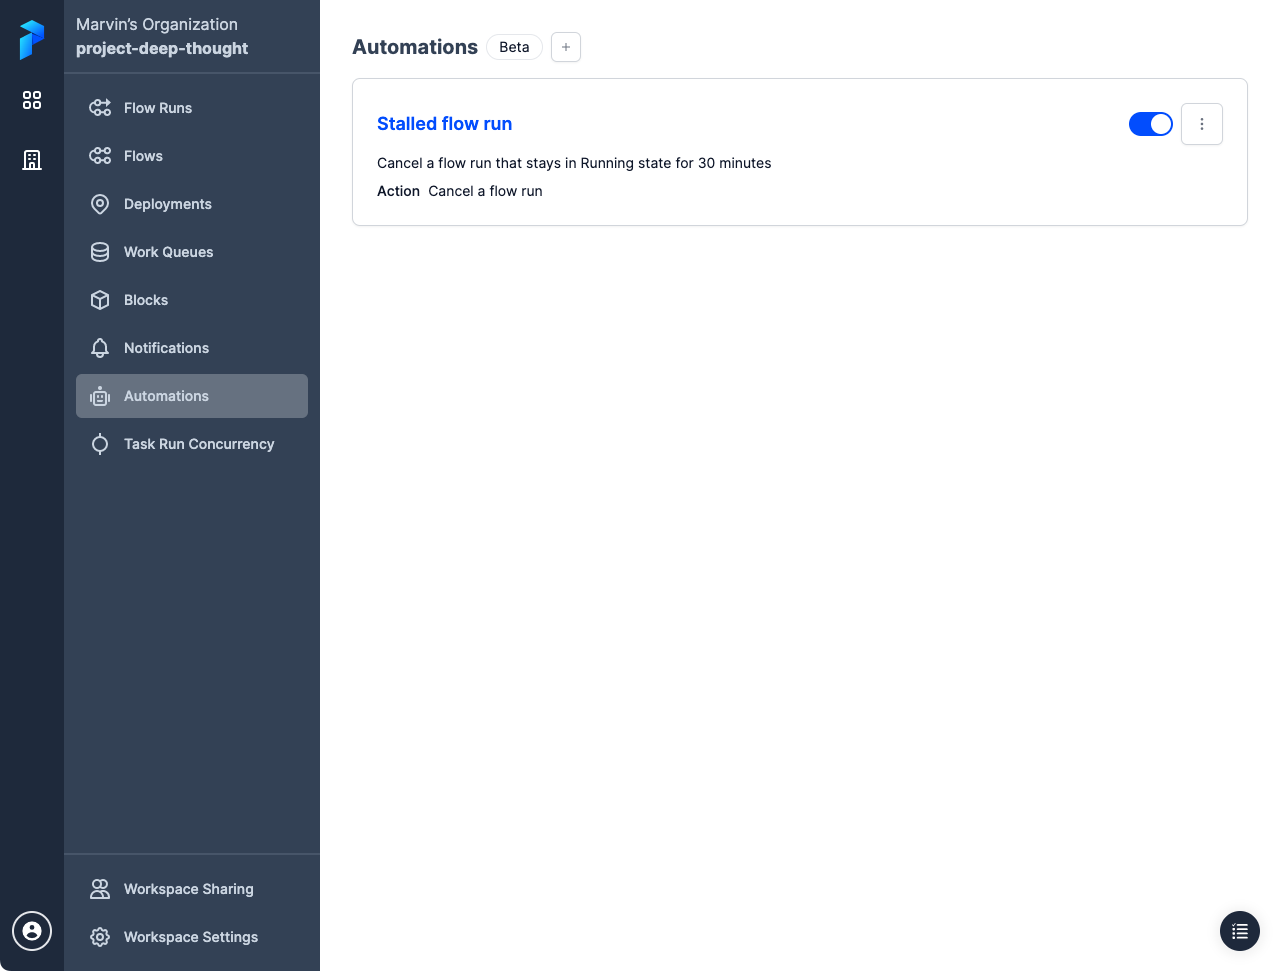
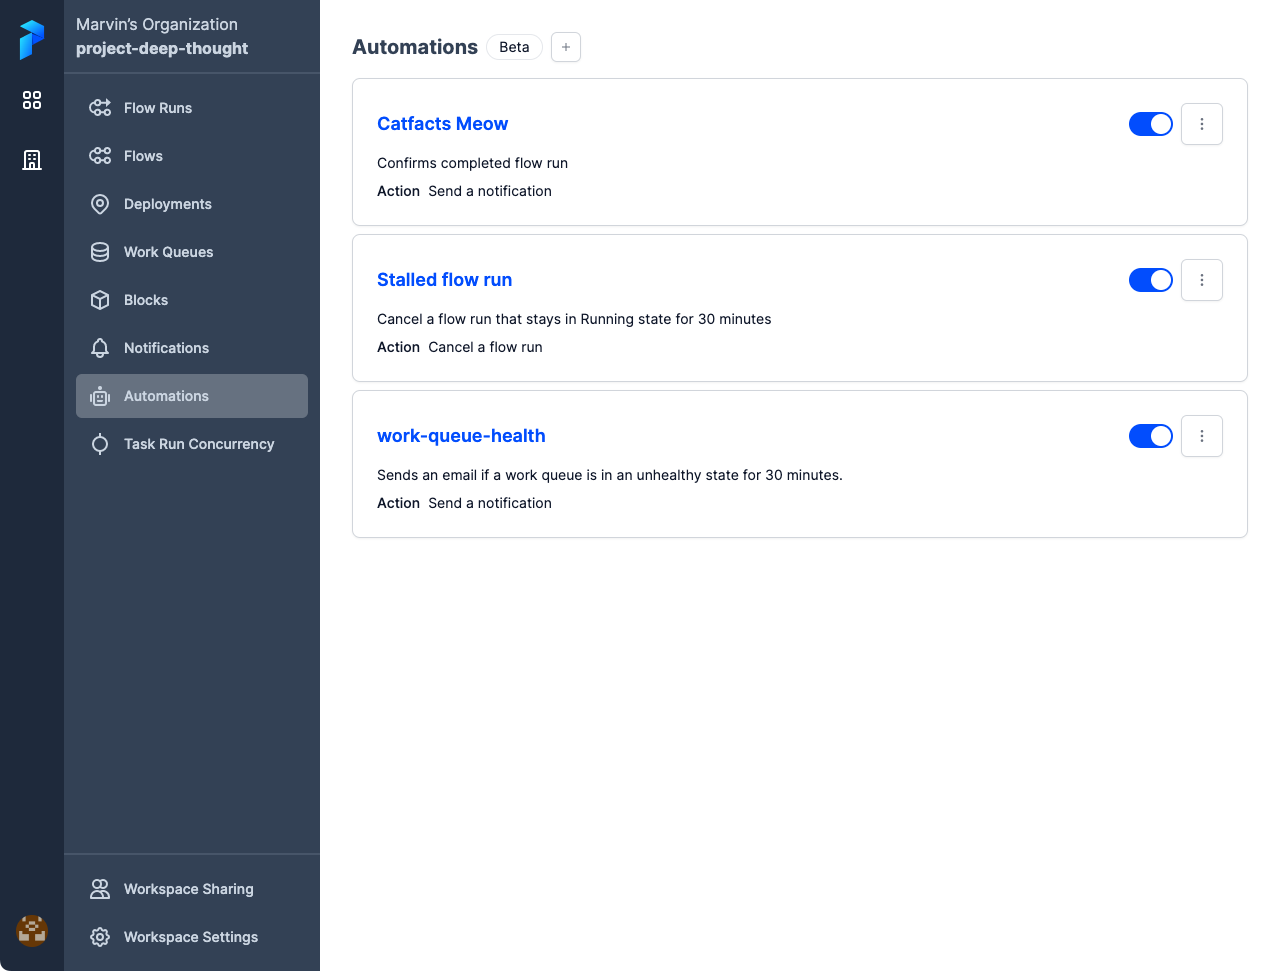
Updates to Automations and Notifications documentation (#8140)

diff --git a/docs/ui/automations.md b/docs/ui/automations.md
@@ -11,11 +11,16 @@ tags:
     - Prefect Cloud
 ---
 
-# Automations <span class="badge cloud"></span> <span class="badge beta"></span>
+# Automations <span class="badge cloud"></span>
 
-Automations are currently in beta and under active development, with new features being added weekly.
+Automations in Prefect Cloud enable you to configure [actions](#actions) that Prefect executes automatically based on [trigger](#triggers) conditions related to your flows and work queues. 
 
-Automations in Prefect Cloud allow for increased flexibility and control of your data stack by allowing you to configure [triggers](#triggers) and [actions](#actions). Using triggers and actions you can automatically kick off flow runs, pause deployments, or send custom notifications (coming soon!) in response to real-time monitoring events.
+Using triggers and actions you can automatically kick off flow runs, pause deployments, or send custom notifications in response to real-time monitoring events.
+
+!!! cloud-ad "Automations are only available in Prefect Cloud"
+    [Notifications](/ui/notifications/) in the open-source Prefect Orion server provide a subset of the notification message-sending features avaiable in Automations.
+
+## Automations overview
 
 The **Automations** page provides an overview of all configured automations for your workspace.
 
@@ -23,20 +28,31 @@ The **Automations** page provides an overview of all configured automations for 
 
 Selecting the toggle next to an automation pauses execution of the automation. 
 
-The button next to the toggle provides commands to copy the automation ID or delete the automation.
+The button next to the toggle provides commands to copy the automation ID, edit the automation, or delete the automation.
+
+Select the name of an automation to view **Details** about it.
+
+![Viewing details of an automation in Prefect Cloud.](/img/ui/automations-detail-tab.png)
+
+The **Events** tab displays a list of triggers and actions related to the automation. You can filter the list on date or event type. Select the timestamp of an event to see further details.
+
+![Viewing events that triggered an automation in Prefect Cloud.](/img/ui/automations-event-tab.png)
+
+## Create an automation
 
 On the **Automations** page, select the **+** icon to create a new automation. You'll be prompted to configure:
 
 - A [trigger](#triggers) condition that causes the automation to execute.
-- An [action](#actions) carried out by the automation.
+- One or more [actions](#actions) carried out by the automation.
 - [Details](#details) about the automation, such as a name and description.
 
-## Triggers
+### Triggers
 
 Triggers specify the conditions under which your action should be performed. Triggers can be of several types, including triggers based on: 
 
 - Flow run state change
-- Work queue health (coming soon!)
+- Work queue health
+- [Custom event](#automations-api) triggers
 
 Importantly, triggers can be configured not only in reaction to events, but also proactively: to trigger in the absence of an event you expect to see.
 
@@ -44,8 +60,10 @@ Importantly, triggers can be configured not only in reaction to events, but also
 
 For example, in the case of flow run state change triggers, you might expect production flows to finish in no longer than thirty minutes. But transient infrastructure or network issues could cause your flow to get “stuck” in a running state. A trigger could kick off an action if the flow stays in a running state for more than 30 minutes. This action could be on the flow itself, such as canceling or restarting it, or it could take the form of a notification so someone can take manual remediation steps.
 
+!!! note "Work queue health"
+    A work queue is "unhealthy" if it has not been polled in over 60 seconds and has one or more late runs.
 
-## Actions
+### Actions
 
 Actions specify what your automation does when its trigger criteria are met. Current action types include: 
 
@@ -53,6 +71,7 @@ Actions specify what your automation does when its trigger criteria are met. Cur
 - Pause or resume a deployment schedule
 - Run a deployment
 - Pause or resume a work queue
+- Send a [notification](#automation-notifications)
 
 ![Configuring an action for an automation in Prefect Cloud.](/img/ui/automations-action.png)
 
@@ -70,14 +89,105 @@ Similarly, if a trigger fires on work queue health and the action is to pause an
 
 Prefect tries to infer the relevant event whenever possible, but sometimes one does not exist.
 
-## Details
+### Details
 
-Finally, specify a name and, optionally, a description for the automation.
+Specify a name and, optionally, a description for the automation.
 
 ![Configuring details for an automation in Prefect Cloud.](/img/ui/automations-details.png)
 
-## Coming soon
+## Automation notifications
 
-Automations will be the foundation of several new solutions in Prefect. In addition to triggers based on work queue health and flow run state changes, we’ll soon expand the types of conditions for triggers, including triggers based on infrastructure or block method events.  
+Notifications enable you to set up automation actions that send a message. 
 
-We’ll also continue to expand the [automations API](https://app.prefect.cloud/api/docs#tag/Automations), which allows for further customization of trigger and action policies based on arbitrary [events](https://app.prefect.cloud/api/docs#tag/Events).
+Automation notifications support sending notifications via any predefined block that is capable of and configured to send a message. That includes, for example:
+
+- Slack message to a channel
+- Microsoft Teams message to a channel
+- Email to a configured email address
+
+![Configuring notifications for an automation in Prefect Cloud.](/img/ui/automations-notifications.png)
+
+!!! note "Notification blocks must be pre-configured"
+    Notification blocks must be pre-configured prior to creating a notification action. Any existing blocks capable of sending messages will be shown in the block drop-down list.
+
+    The **Add +** button cancels the current automation creation process and enables configuration a notification block.
+
+## Templating notifications with Jinja
+
+The notification body can include templated variables using [Jinja](https://palletsprojects.com/p/jinja/) syntax. Templated variable enable you to include details relevant to automation trigger, such as a flow or queue name. 
+
+Jinja templated variable syntax wraps the variable name in double curly brackets, like `{{ variable }}`.
+
+You can access properties of the underlying flow run objects including:
+
+- [flow_run](/api-ref/orion/schemas/core/#prefect.orion.schemas.core.FlowRun)
+- [flow](/api-ref/orion/schemas/core/#prefect.orion.schemas.core.Flow)
+- [deployment](/api-ref/orion/schemas/core/#prefect.orion.schemas.core.Deployment)
+- [work_queue](/api-ref/orion/schemas/core/#prefect.orion.schemas.core.WorkQueue)
+
+In addition to its native properites, each object includes an `id` along with `created` and `updated` timestamps. 
+
+The `flow_run|ui_url` token returns the URL for viewing the flow run in Prefect Cloud.
+
+Here’s an example for something that would be relevant to a flow run state-based notification:
+
+```
+Flow run {{ flow_run.name }} entered state {{ flow_run.state.name }}. 
+
+    Timestamp: {{ flow_run.state.timestamp }}
+    Flow ID: {{ flow_run.flow_id }}
+    Flow Run ID: {{ flow_run.id }}
+    State message: {{ flow_run.state.message }}
+```
+
+The resulting Slack webhook notification would look something like this:
+
+![Configuring notifications for an automation in Prefect Cloud.](/img/ui/templated-notification.png)
+
+You could include `flow` and `deployment` properties.
+
+```
+Flow run {{ flow_run.name }} for flow {{ flow.name }}
+entered state {{ flow_run.state.name }}
+with message {{ flow_run.state.message }}
+
+Flow tags: {{ flow.tags }}
+Deployment name: {{ deployment.name }}
+Deployment version: {{ deployment.version }}
+Deployment parameters: {{ deployment.parameters }}
+```
+
+An automation that reports on work queue health might include notifications using `work_queue` properties.
+
+```
+Work queue health alert!
+
+Name: {{ work_queue.name }}
+Last polled: {{ work_queue.last_polled }}
+```
+
+In addition to those shortcuts for flows, deployments, and work queues, you have access to the automation and the event that triggered the automation. See the [Automations API](#automations-api) for additional details.
+
+```
+Automation: {{ automation.name }}
+Description: {{ automation.description }}
+
+Event: {{ event.id }}
+Resource:
+{% for label, value in event.resource %}
+{{ label }}: {{ value }}
+{% endfor %}
+Related Resources:
+{% for related in event.related %}
+    Role: {{ related.role }}
+    {% for label, value in event.resource %}
+    {{ label }}: {{ value }}
+    {% endfor %}
+{% endfor %}
+```
+
+Note that this example also illustrates the ability to use Jinja features such as iterator and for loop [control structures](https://jinja.palletsprojects.com/en/3.1.x/templates/#list-of-control-structures) when templating notifications.
+
+## Automations API 
+
+The [automations API](https://app.prefect.cloud/api/docs#tag/Automations) enables further programatic customization of trigger and action policies based on arbitrary [events](https://app.prefect.cloud/api/docs#tag/Events).

diff --git a/docs/ui/notifications.md b/docs/ui/notifications.md
@@ -25,6 +25,11 @@ Currently Prefect 2 supports sending notifications via:
 - Twilio to phone numbers
 - Email (Prefect Cloud only)
 
+!!! cloud-ad "Notifications in Prefect Cloud"
+    Prefect Cloud uses the robust [Automations](/ui/automations/) interface to enable notifications related to flow run state changes and work queue health.
+
+## Configure notifications
+
 To configure a notification, go to the **Notifications** page and select **Create Notification** or the **+** button. 
 
 ![Creating a notification in the Prefect UI](/img/ui/orion-create-slack-notification.png)
